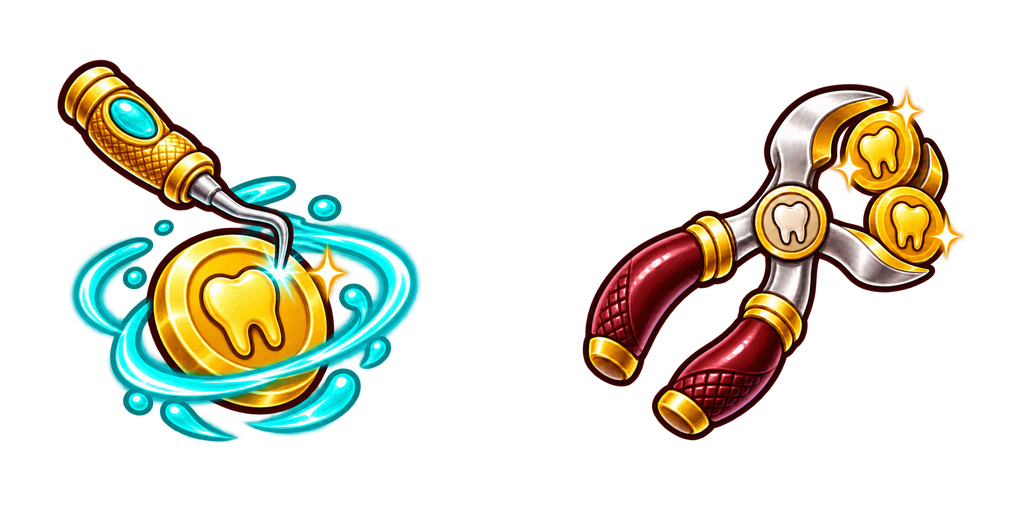
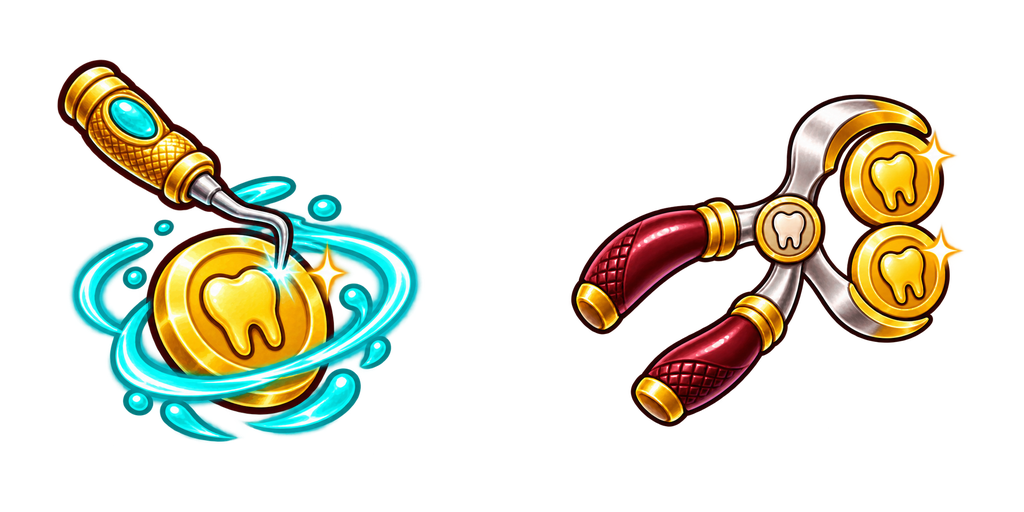
Correct gold extractor arm geometry and preserve complete atlas silhouette

Changed region(s): [[0.5312, 0.1562, 0.9375, 0.875]]

diff --git a/tools/pack_economy_icons.py b/tools/pack_economy_icons.py
@@ -5,11 +5,20 @@ from PIL import Image
 ROOT = Path(__file__).resolve().parents[1]
 sources = [
     Image.open(ROOT / "assets/items/reference/economy_icons_source.png").convert("RGBA"),
-    Image.open(ROOT / "assets/items/reference/economy_icons_source_v2.png").convert("RGBA"),
+    Image.open(ROOT / "assets/items/reference/economy_icons_source_v3.png").convert("RGBA"),
 ]
 atlas = Image.new("RGBA", (1024, 512))
 for index, source in enumerate(sources):
-    cell = source.crop((index * source.width // 2, 0, (index + 1) * source.width // 2, source.height))
+    # Generated motifs may extend past the mathematical canvas midpoint.
+    # Separate them in the actual transparent gutter so no handle is clipped.
+    alpha = source.getchannel("A")
+    separators = [x for x in range(source.width * 2 // 5, source.width * 3 // 5)
+                  if alpha.crop((x, 0, x + 1, source.height)).getbbox() is None]
+    if not separators:
+        raise ValueError("Economy motifs need a fully transparent separating gutter")
+    split = min(separators, key=lambda x: abs(x - source.width // 2))
+    cell = source.crop((0, 0, split, source.height) if index == 0
+                       else (split, 0, source.width, source.height))
     cell = cell.crop(cell.getchannel("A").getbbox())
     cell.thumbnail((400, 400), Image.Resampling.LANCZOS)
     atlas.alpha_composite(cell, (index * 512 + (512 - cell.width) // 2, (512 - cell.height) // 2))

diff --git a/docs/ECONOMY_ICON_PROMPT.md b/docs/ECONOMY_ICON_PROMPT.md
@@ -2,7 +2,7 @@
 
 Erzeugt am 01.10.2026 mit OpenAI ImageGen, transparentem Hintergrund und der lokalen Stilreferenz `assets/items/item_icons_expansion_2.png`.
 
-Die ursprüngliche Quelle bleibt unverändert in `assets/items/reference/economy_icons_source.png`. Die Korrektur liegt separat in `assets/items/reference/economy_icons_source_v2.png`. Das Spiel verwendet `assets/items/item_icons_economy.png`: zwei gepolsterte Atlaszellen, Goldsonde links aus der ursprünglichen Quelle und Goldextraktor rechts aus der Korrektur. Der Packvorgang ist mit `python tools/pack_economy_icons.py` reproduzierbar.
+Die ursprüngliche Quelle bleibt unverändert in `assets/items/reference/economy_icons_source.png`. Die aktuelle Korrektur liegt separat in `assets/items/reference/economy_icons_source_v3.png`; `economy_icons_source_v2.png` bewahrt den ersten Bearbeitungsversuch. Das Spiel verwendet `assets/items/item_icons_economy.png`: zwei gepolsterte Atlaszellen, Goldsonde links aus der ursprünglichen Quelle und Goldextraktor rechts aus der aktuellen Korrektur. Der Packvorgang ist mit `python tools/pack_economy_icons.py` reproduzierbar. Er trennt die Motive in der tatsächlichen transparenten Lücke, damit ein über die rechnerische Bildmitte ragender Griff vollständig bleibt.
 
 ## Verwendeter Prompt
 
@@ -15,3 +15,11 @@ Am 01.10.2026 mit dem eingebauten ImageGen als Bearbeitung der Originalquelle er
 ### Verwendeter Bearbeitungsprompt
 
 Use case: precise-object-edit. Input image 1 is the EDIT TARGET: a transparent two-icon dental game atlas. Correct ONLY the RIGHT icon, the burgundy-handled Goldextraktor extraction forceps/scissors, to have exactly TWO functional curved metal jaws/blades, one upper and one lower, operated by the existing two grips and one round hinge. It currently has an erroneous THIRD silver triangular blade projecting right/up from the hinge into the middle gap behind the two coins: completely remove that extra middle metal wedge/point. The gap between the upper and lower jaws must be clearly empty transparent negative space except for the two gold tooth coins already being gripped. Make the two remaining opposed jaws mechanically coherent and readable, with exactly two metal working tips. Preserve both gold tooth coins, the round ivory-tooth hinge ornament, both burgundy grips, golden trims, composition, orientation, scale and glossy hand-painted cartoon dental style. Keep the ENTIRE LEFT Goldsonde icon unchanged, including gold handle, turquoise swirl, coin and probe. Preserve the canvas aspect ratio 2:1, two independent equal cells, and real alpha transparency. No additional objects, text, background, third jaw, extra metal spikes, extra handles or photorealism.
+
+## Zweite Korrektur: durchgehende Armführung
+
+Der erste Versuch korrigierte die Armführung nicht ausreichend. Die aktuelle Version führt den linken Griff zur oberen rechten Backe und den anderen Griff zur unteren Backe. Zwischen den Münzen steht keine Metallklinge. Mit dem eingebauten ImageGen am 01.10.2026 anhand der Version v2 erzeugt; nur die rechte Zelle wird übernommen, die Goldsonde bleibt exakt erhalten.
+
+### Verwendeter Bearbeitungsprompt für v3
+
+Use case: precise-object-edit. Image 1 is the edit target, a transparent two-icon game atlas. Rebuild the METAL ARM AND JAW GEOMETRY OF THE RIGHT Goldextraktor icon rather than merely hiding a small tip. The current construction is wrong: the leftmost burgundy handle incorrectly continues through the round hinge to the blade UNDER the lower coin. Correct the tracing: LEFTMOST HANDLE -> silver neck -> round tooth-emblem hinge -> silver arm angling UP AND RIGHT -> the GOLD-TIPPED UPPER JAW on the far right, above/outside the upper gold coin. The other, lower-right burgundy handle connects through its silver neck and the SAME single hinge to the LOWER jaw below/outside the lower coin. Exactly TWO continuous metal arms and TWO opposing outer gripping jaws total. Arrange the two tooth coins closely together between those outer jaws. There must be NO metal blade, silver wedge, gold wedge, or small cutting tip BETWEEN the two coins. There must be NO residual third jaw behind the coins. Remove any old curved blade shape that is not part of those two continuous arms; do not retain an extra crescent blade as decoration. The open space between the coins and the hinge must be true transparent negative space, not filled with an intermediate cutting edge. Make the arm-to-handle connections clearly readable in a simple nearly side-on perspective. Keep the recognizable dark burgundy grips, golden trim, single circular ivory-tooth hinge emblem, two gold tooth coins and glossy cartoon dental style. Keep the ENTIRE LEFT Goldsonde icon unchanged. Preserve the two equal side-by-side cells and wide 2:1 canvas with genuine alpha transparency, no text or backdrop. This edit must visibly correct the whole two-arm construction, not just remove one triangular detail.

diff --git a/docs/ECONOMY_BALANCE.md b/docs/ECONOMY_BALANCE.md
@@ -25,7 +25,7 @@ Die Werte werden genau einmal beim Tod des Gegners festgelegt und als fertige Be
 
 ![Neue gemalte Economy-Icons](../assets/items/item_icons_economy.png)
 
-Der transparente Atlas ergänzt die bestehenden gemalten Icons um Zellen 28/29. Beide Motive wurden gemeinsam mit ImageGen anhand von `item_icons_expansion_2.png` erzeugt, danach in vollständige 512×512-Zellen mit mindestens 56 Pixeln Rand gepackt. Die ursprüngliche Generierungsquelle liegt unverändert in `assets/items/reference/economy_icons_source.png`; die Korrektur des Goldextraktors mit zwei statt drei Klingen liegt separat in `economy_icons_source_v2.png`. `.gdignore` hält beide Quellen aus dem Spielimport. `tools/pack_economy_icons.py` reproduziert das Packen und erhält die linke Zelle exakt. Die vollständigen [Generierungs- und Bearbeitungsprompts](ECONOMY_ICON_PROMPT.md) sind abgelegt.
+Der transparente Atlas ergänzt die bestehenden gemalten Icons um Zellen 28/29. Beide Motive wurden gemeinsam mit ImageGen anhand von `item_icons_expansion_2.png` erzeugt, danach in vollständige 512×512-Zellen mit mindestens 56 Pixeln Rand gepackt. Die ursprüngliche Generierungsquelle liegt unverändert in `assets/items/reference/economy_icons_source.png`; die aktuelle Korrektur der Armführung des Goldextraktors liegt separat in `economy_icons_source_v3.png`. `.gdignore` hält die Quellen aus dem Spielimport. `tools/pack_economy_icons.py` reproduziert das Packen und erhält die linke Zelle exakt. Die vollständigen [Generierungs- und Bearbeitungsprompts](ECONOMY_ICON_PROMPT.md) sind abgelegt.
 
 ## Level-up-Rerolls
 

diff --git a/CHANGELOG.md b/CHANGELOG.md
@@ -4,7 +4,7 @@ Die Versionsnummer wird zentral in `project.godot` gepflegt und im Hauptmenü an
 
 ## In Entwicklung
 
-- Goldextraktor-Icon: zusätzliche dritte Metallspitze entfernt; zwei klar getrennte Klingen. Die Goldsonde bleibt unverändert.
+- Goldextraktor-Icon: Armführung überarbeitet, linker Griff zur oberen rechten Backe; keine Klinge zwischen den Münzen. Zwei äußere Backen und vollständige Griffe ohne abgeschnittene Atlasränder. Die Goldsonde bleibt unverändert.
 
 - **Endlosmodus:** nach dem Sieg in Welle 20 mit dem bestehenden Build weiterspielen. Ab Welle 21 dauern Wellen 60 Sekunden; die Brotato-Endloskurve verstärkt Gegner und Shoppreise. Mehr Elite- und Gegnerdruck, Doppelbosse in Welle 30/40/... und vollständiges Save/Resume. Der ursprüngliche Sieg bleibt erhalten. [Kurve, Messungen und Vorschau](docs/ENDLESS_MODE.md).
 
